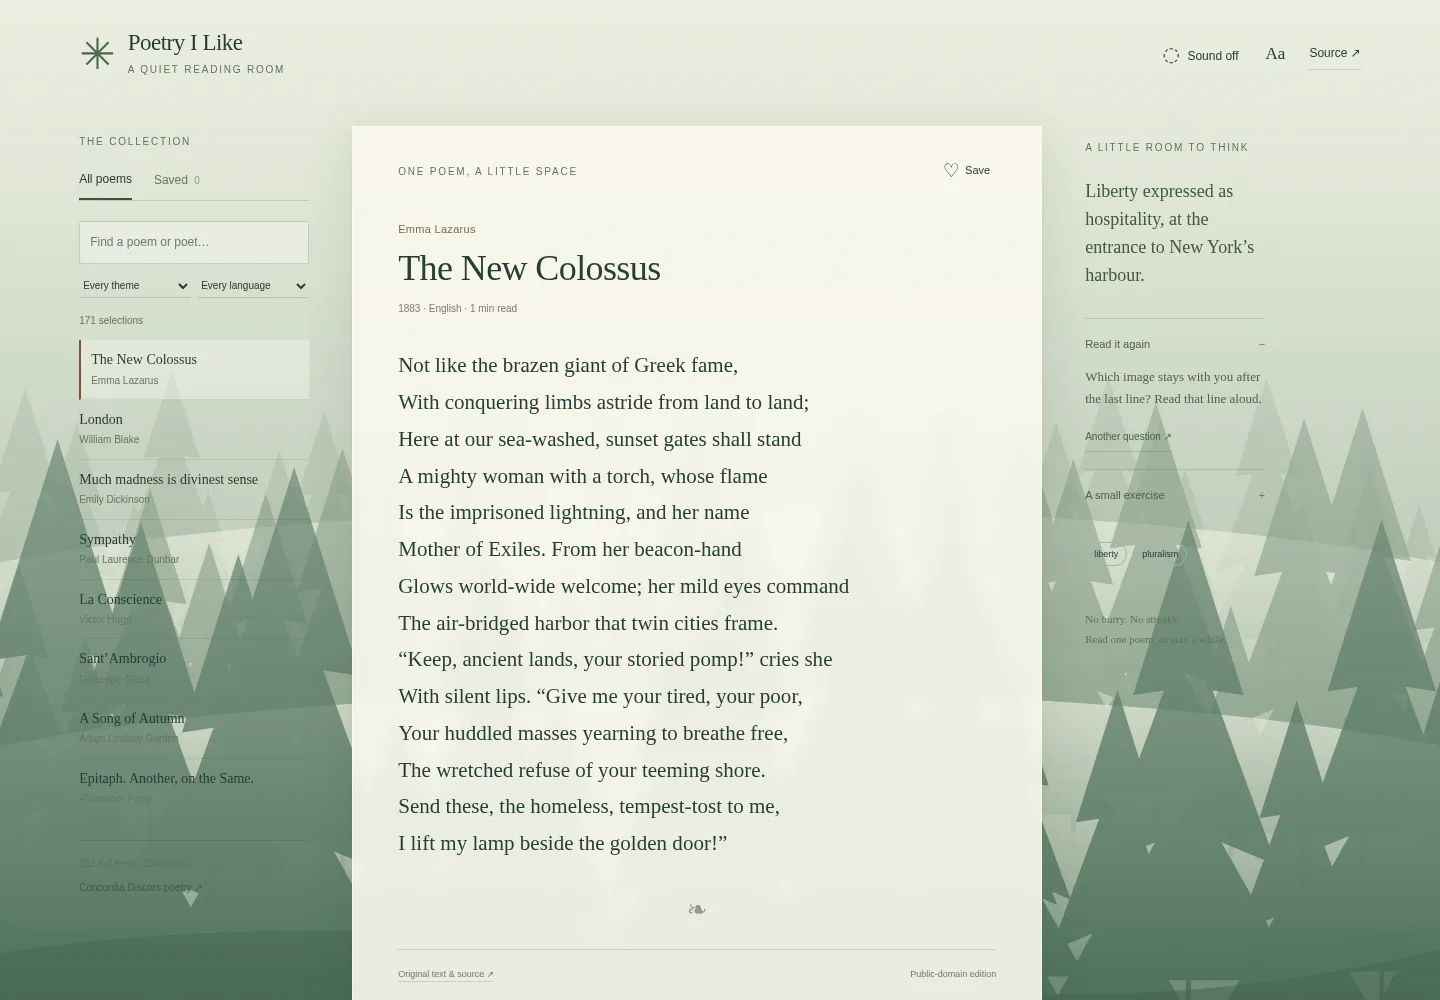
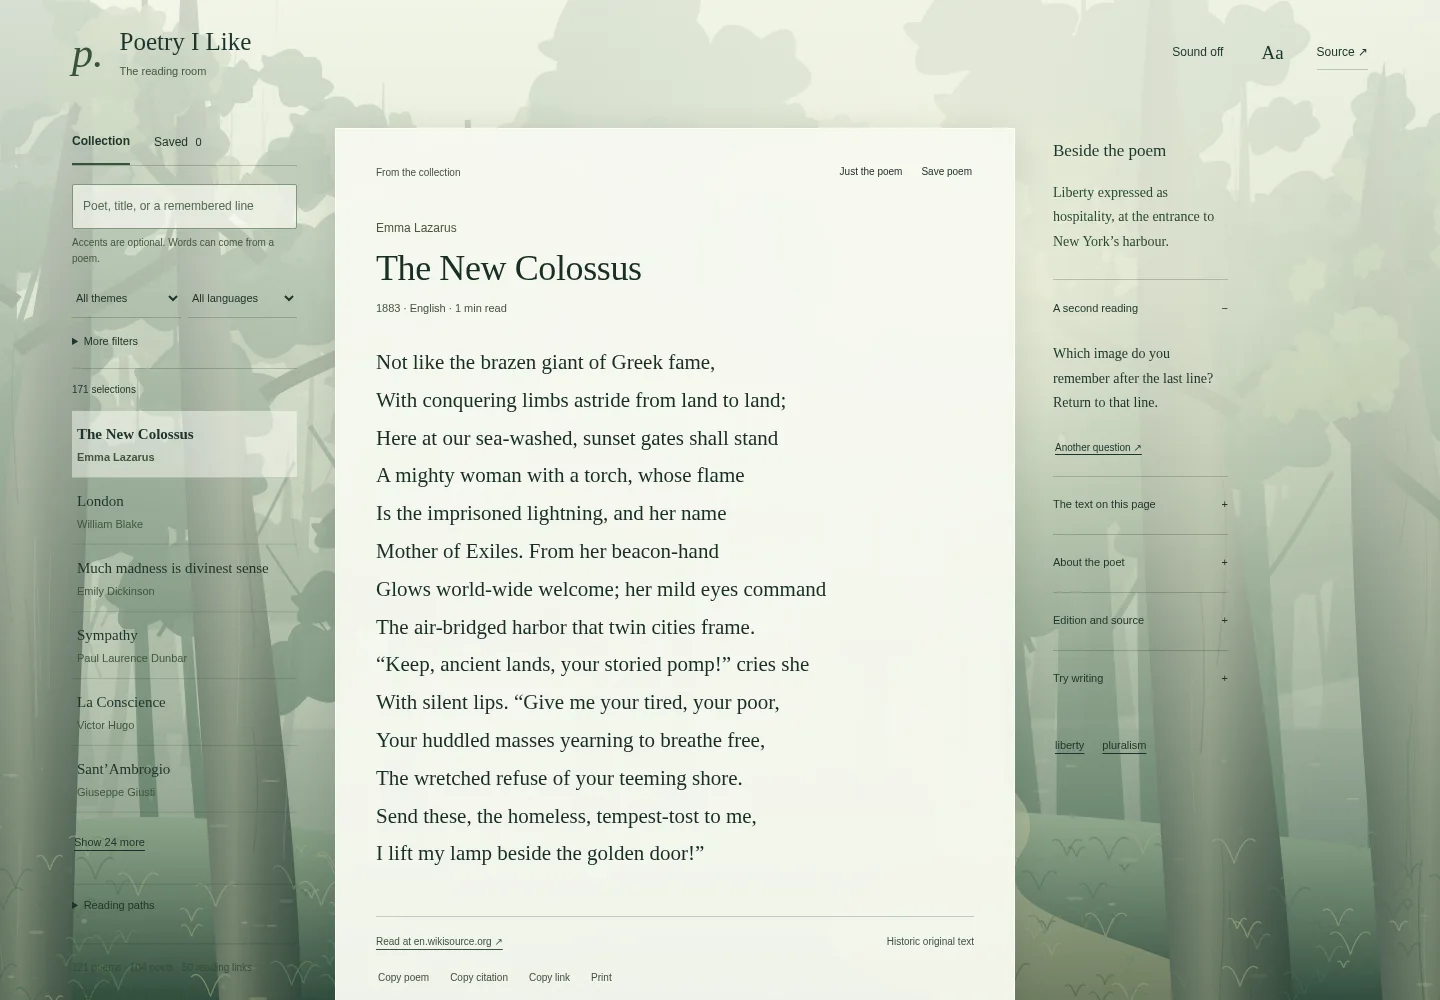
Document forest reader and publish desktop and mobile captures [skip ci]

diff --git a/README.md b/README.md
@@ -4,6 +4,10 @@
 
 [Mobile view](screenshots/mobile.webp)
 
+[100 implemented refinements](docs/REFINEMENTS-100.md) · [Browser review](docs/BROWSER-REVIEW-20261112.json)
+
+[Mobile library](screenshots/library-mobile-20261112.webp) · [Reading settings](screenshots/reading-settings-20261112.webp)
+
 A quiet browser reader for **121 full-text poems by 104 poets**, with 50 further
 reading references. Browse by poet, theme or language; read one line at a time;
 save a poem; turn on soft rain or a forest soundscape.
